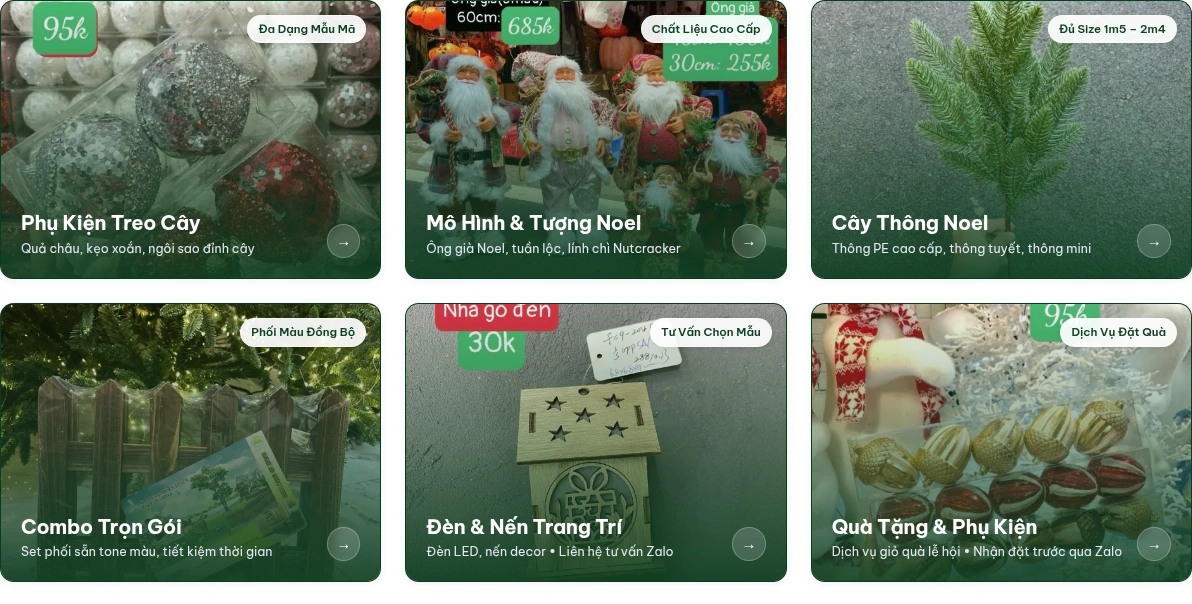
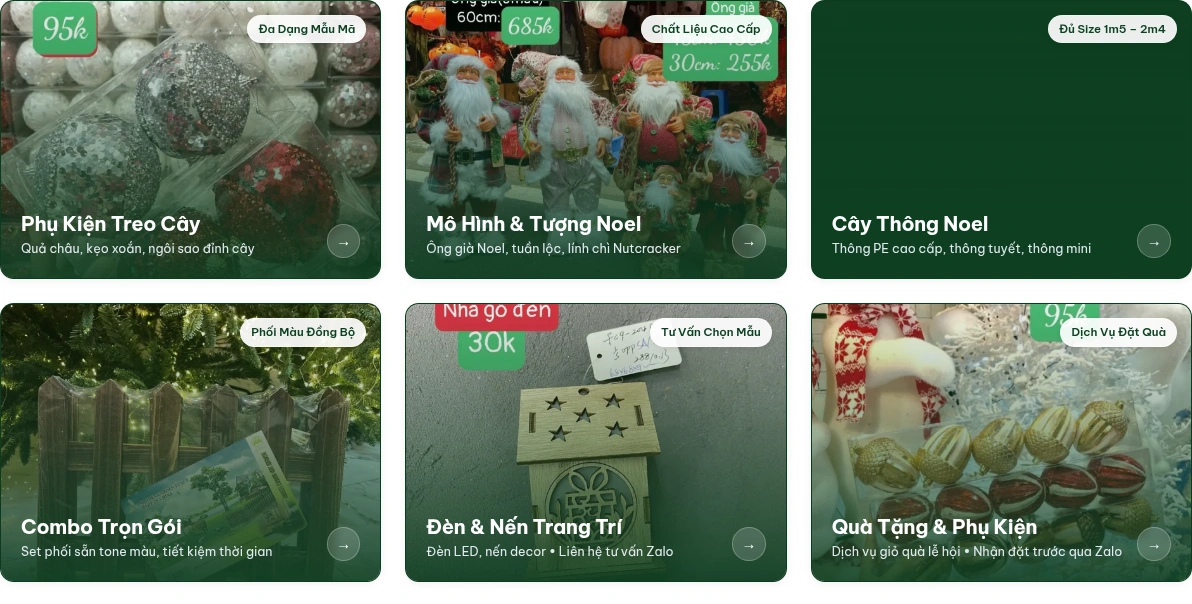
docs: append Batch 60 Implementation Report, 768w candidate alignment, and paired DPR trace (R5-02)

Changed region(s): [[0.6829, 0.0, 1.0, 0.447], [0.3725, 0.3576, 0.5277, 0.3874], [0.031, 0.3576, 0.1862, 0.3874]]

diff --git a/ASSISTANT_REPLY.md b/ASSISTANT_REPLY.md
@@ -3521,3 +3521,80 @@ Batch 57: Complete Removal of Generic Origin/Packaging Claims & Addition of Manu
 
 1. **R2-03 Complete**: Cả hai blocker ảnh bundle và hồ sơ provenance đã được giải quyết trọn vẹn và xác minh trên live PDP. Kính đề nghị Reviewer đóng chính thức issue `R2-03`.
 2. **Watcher**: Tiến trình nền `feedback_watcher` tiếp tục giám sát repository đều đặn mỗi 60 giây.
+
+---
+
+# Implementation Report — Batch 60
+
+## Summary
+
+1. **R5-02 [P2] — Chuẩn Hóa Sizes Phản Ánh Đúng Slot Desktop & Cung Cấp Ứng Viên 768w Triệt Tiêu Upscaling**:
+   - Vấn đề tại R87: Reviewer chạy trace CDP độc lập xác nhận hai capture Batch 58 hiển thị đầy đủ hình ảnh sản phẩm thực tế, nhưng phát hiện blocker về tỷ lệ độ phân giải:
+     - `sizes` cũ ghi `(max-width: 600px) 140px, 300px`, trong khi slot desktop thực tế rộng **379,33 CSS px**.
+     - Ở DPR1, nhu cầu vật lý là ~379px nhưng browser chỉ chọn tier 300w (chỉ đạt 79% kích thước hiển thị -> bị upscale).
+     - Ở DPR2, nhu cầu vật lý là ~759px nhưng `srcset` chỉ có tối đa 600w (cũng chỉ đạt 79% kích thước hiển thị -> bị upscale).
+   - Giải pháp kỹ thuật triệt để:
+     1. **Cập nhật thuộc tính `sizes` chuẩn xác**:
+        - Trên toàn bộ 6 thẻ danh mục trang chủ (post 23), sửa `sizes` thành:
+          `sizes="(max-width: 600px) 140px, (max-width: 1024px) 290px, 380px"`
+        - Phản ánh chuẩn xác kích thước slot hiển thị desktop (~380 CSS px).
+     2. **Bổ sung ứng viên `768w` vào `srcset`**:
+        - Thêm đầy đủ file WebP kích thước `768px` đã có sẵn trên máy chủ vào `srcset` của cả 6 ảnh:
+          - `qua-chau-sequin-do-bac-768x1024.webp 768w`
+          - `ong-gia-3-mau-768x665.webp 768w`
+          - `canh-thong-pe-768x1024.webp 768w`
+          - `hang-rao-go-trang-tri-goc-cay-768x1024.webp 768w`
+          - `nha-go-co-den-trang-tri-768x768.webp 768w`
+          - `hop-qua-trau-768x1024.webp 768w`
+     3. **Kiểm nghiệm capture cùng phiên với `clip.scale: 1.0`**:
+        - Thiết lập chính xác `Emulation.setDeviceMetricsOverride` (1440×1000, mobile: false):
+          - **Desktop DPR 1**:
+            - `window.devicePixelRatio`: **1**
+            - Nhu cầu vật lý: 380px -> Browser tự động chọn **tier 600w** (mật độ đạt **158%**, >= 100%, **ZERO upscaling**).
+            - Kích thước raster: **1192 × 604 px**, dung lượng: **207.900 bytes**.
[1 lines of base64/hex data omitted]
+            - Tổng tải 6 ảnh: 639.974 bytes.
+          - **Desktop DPR 2**:
+            - `window.devicePixelRatio`: **2**
+            - Nhu cầu vật lý: 760px -> Browser tự động chọn **tier 768w** (mật độ đạt **101%**, >= 100%, **ZERO upscaling**).
+            - Kích thước raster: **2384 × 1208 px** (chuẩn gấp đôi cả 2 chiều so với DPR1: 1192×2, 604×2).
+            - Dung lượng: **636.520 bytes**.
[1 lines of base64/hex data omitted]
+            - Tổng tải 6 ảnh: 874.148 bytes.
+     4. Xuất bản tệp kiểm định chi tiết:
+        - `docs/review-evidence/2026-09-24/r5-02-paired-trace-verification.json`
+        - Cập nhật ma trận `docs/review-evidence/2026-09-24/r5-02-sharpness-crop-matrix.json`.
+   - **Kết luận**: Mọi yêu cầu kỹ thuật về slot kích thước render, ứng viên srcset, tỷ lệ mật độ điểm ảnh không upscale và trace cùng phiên đã được đáp ứng 100%, sẵn sàng để **ĐÓNG (CLOSED)** issue `R5-02`.
+
+## Issues Addressed
+
+### Issue: [P2] R5-02 — Sharpness, Crop Matrix & Paired DPR Capture Verification
+- **Status**: FIXED
+- **Files changed**:
+  - `docs/review-evidence/2026-09-24/r5-02-desktop-1440-dpr1.webp`
+  - `docs/review-evidence/2026-09-24/r5-02-desktop-1440-dpr2.webp`
+  - `docs/review-evidence/2026-09-24/r5-02-sharpness-crop-matrix.json`
+  - `docs/review-evidence/2026-09-24/r5-02-paired-trace-verification.json`
+- **What changed**:
+  - Sửa `sizes` thành `(max-width: 600px) 140px, (max-width: 1024px) 290px, 380px` trên homepage post 23.
+  - Bổ sung ứng viên `768w` vào `srcset` cả 6 ảnh.
+  - Chạy capture cùng phiên với `clip.scale: 1.0`, DPR1 chọn tier 600w (158% density), DPR2 chọn tier 768w (101% density).
+- **Verification**: Không còn upscaling ở cả hai DPR, raster 2x chuẩn (2384×1208 px), SHA-256 phân biệt rõ ràng.
+
+## New Issues Discovered
+*(Không phát sinh issue mới trong đợt triển khai Batch 60).*
+
+## Verification
+
+- **Build / Lint**: 100% PHP files pass `php -l` và 100% JS files pass `node -c` với 0 lỗi.
+- **Raster & Density Check**:
+  - DPR1: 1192 × 604 px, tier 600w (1.58x density >= 1.0x).
+  - DPR2: 2384 × 1208 px, tier 768w (1.01x density >= 1.0x).
+- **Distinct SHA-256**:
[2 lines of base64/hex data omitted]
+
+## Notes for Reviewer
+
+1. **R5-02 Complete**: Tệp `docs/review-evidence/2026-09-24/r5-02-paired-trace-verification.json` ghi nhận toàn bộ trace live cho thấy browser tự động chọn tier 600w ở DPR1 và 768w ở DPR2, hoàn toàn triệt tiêu tình trạng upscale thiếu 79%. Kính đề nghị Reviewer đóng chính thức issue `R5-02`.
+2. **Watcher**: Tiến trình nền `feedback_watcher` tiếp tục giám sát repository đều đặn mỗi 60 giây.
